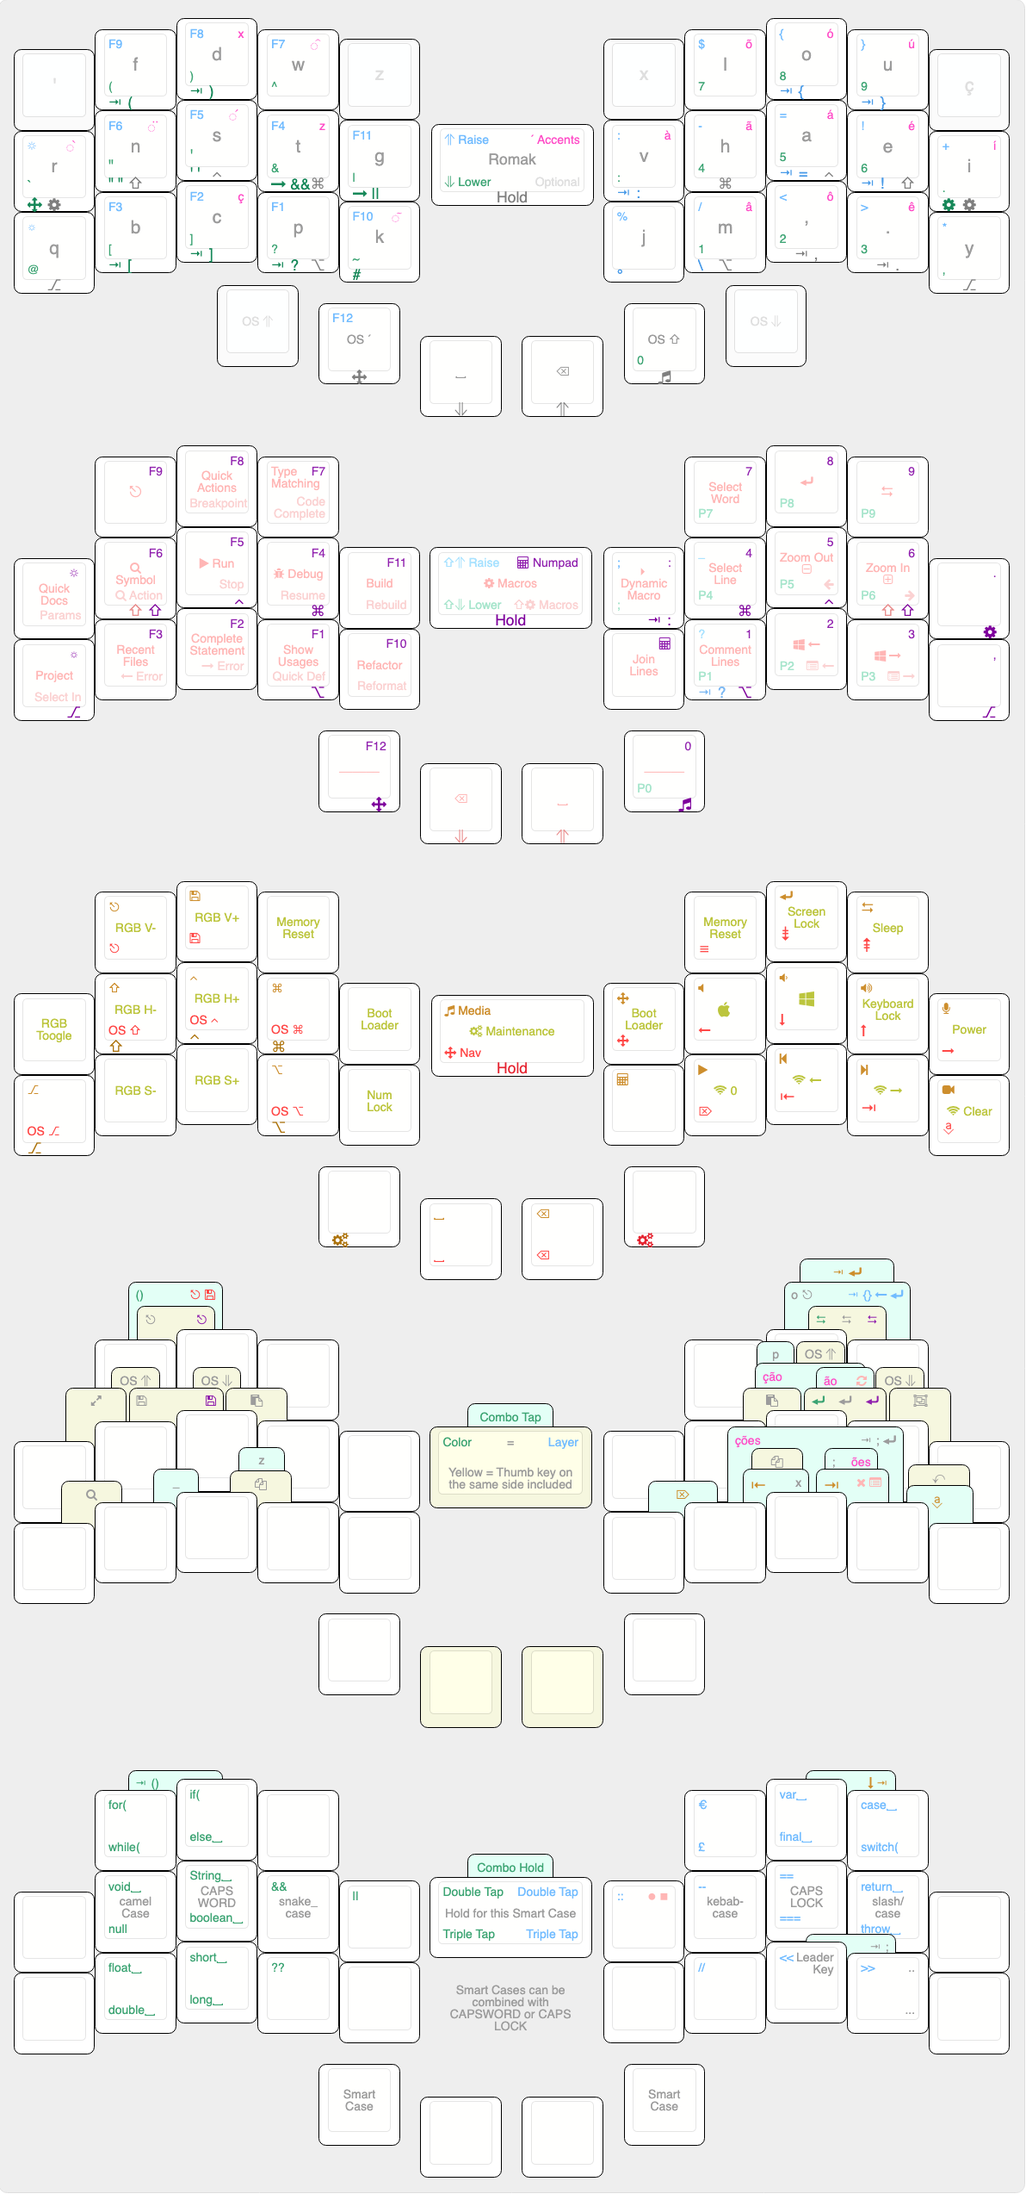
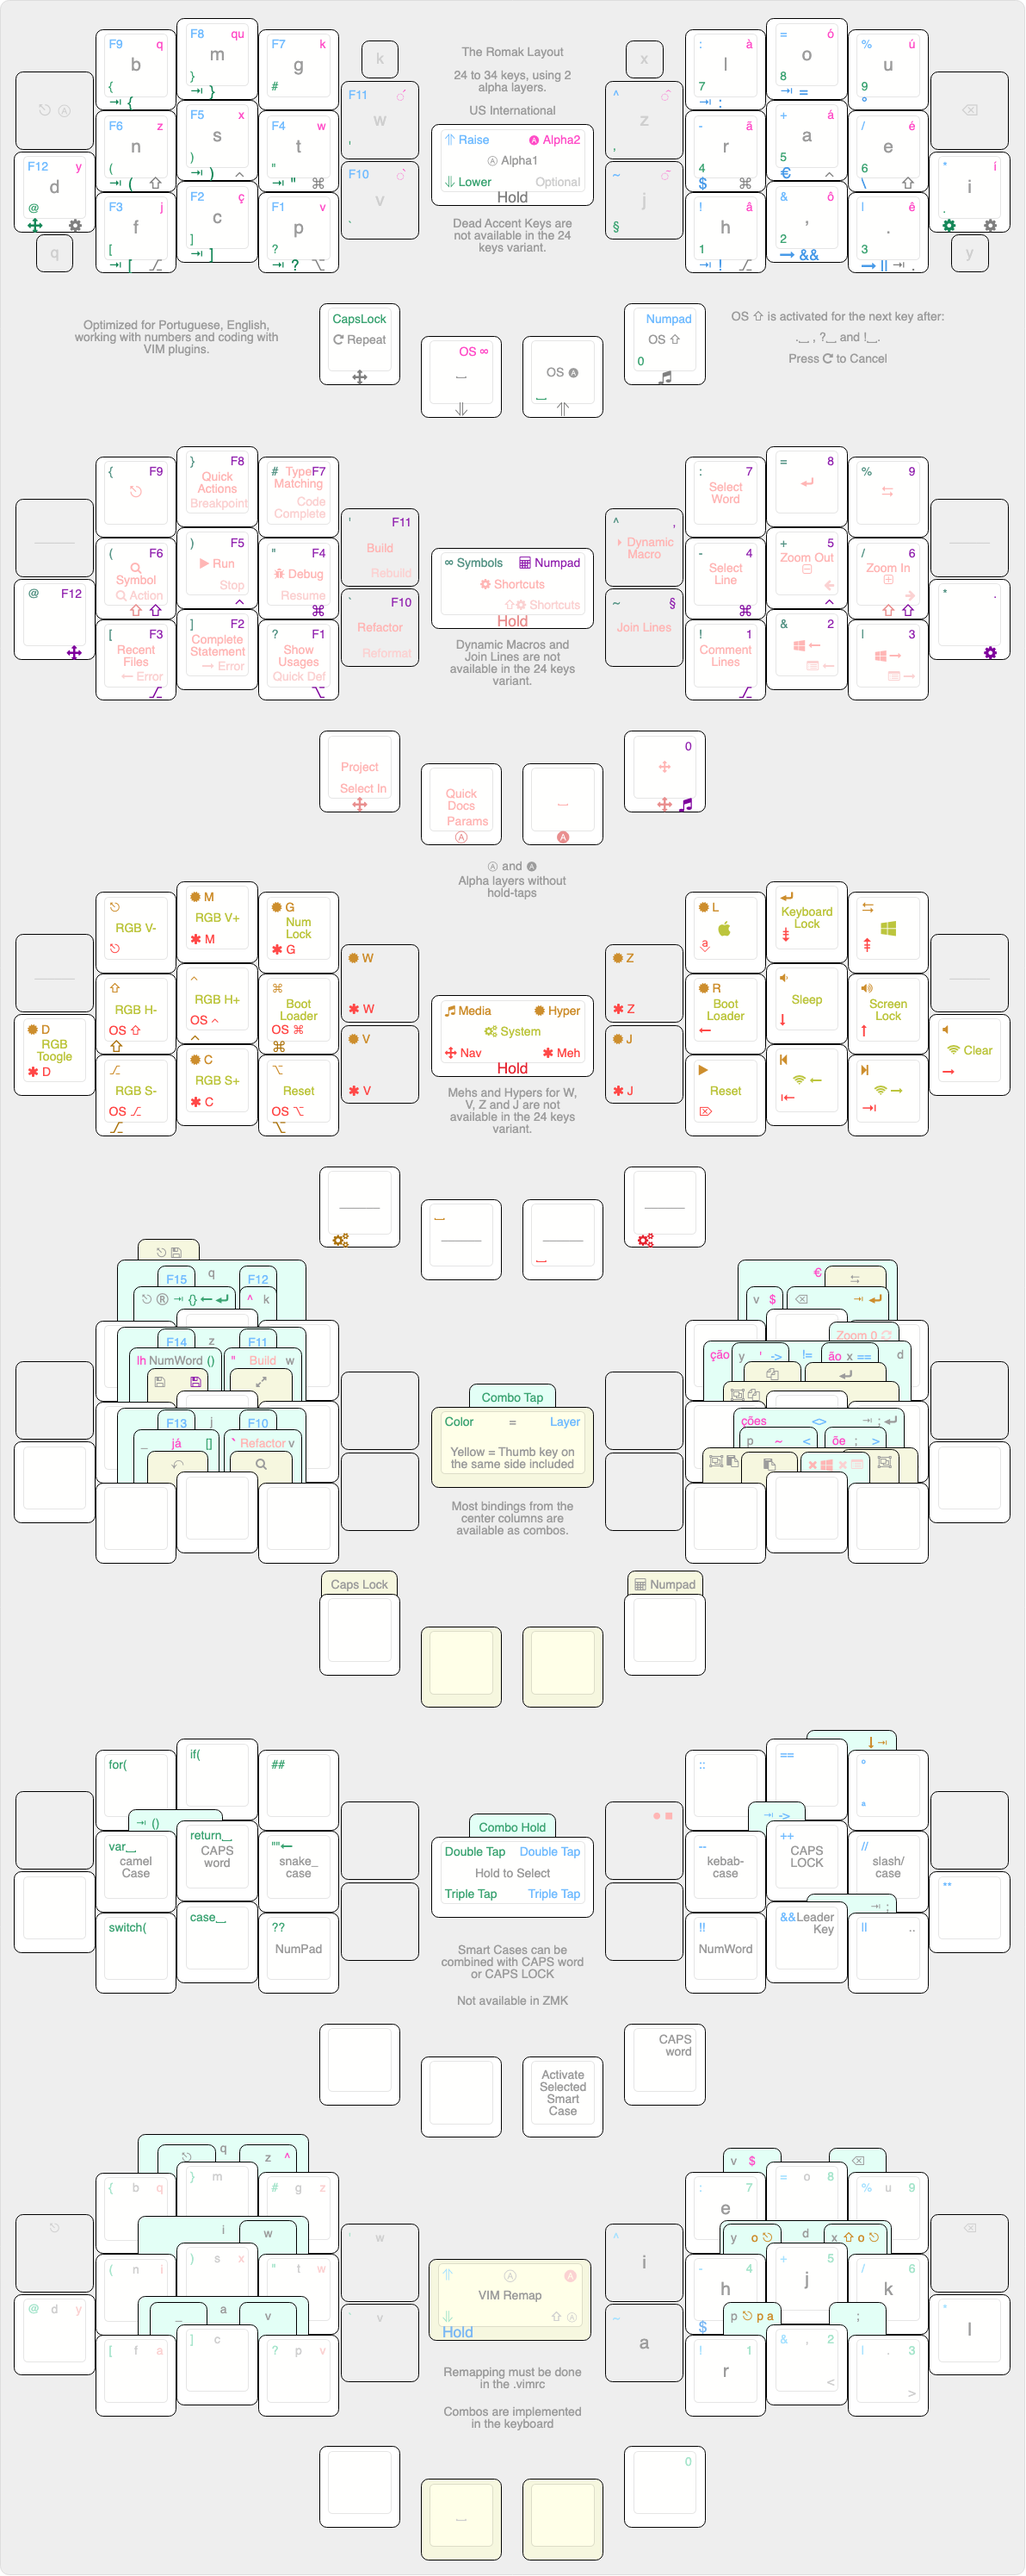
update rafaelromao

diff --git a/src/posts/keymaps/rafaelromao.md b/src/posts/keymaps/rafaelromao.md
@@ -1,13 +1,13 @@
 ---
 
 title: rafaelromao's keyboard layout
-summary: A split keyboard layout optimized for Portuguese, English, working with numbers and software programming with VIM plugins. The number of keys can vary from 30 to 36.
+summary: A split keyboard layout optimized for Portuguese, English, working with numbers and software programming with VIM plugins. The number of keys can vary from 24 to 34.
 keymapUrl: https://github.com/rafaelromao/keyboards
 author: rafaelromao
 keymapImage: rafaelromao.png
-keyboard: Ferris
-keyCount: 30
-layerCount: 9
+keyboard: Rommana
+keyCount: 24
+layerCount: 12
 firmwares: [QMK, ZMK]
 OS: ["MacOS", "Windows"]
 keybindings: ["Vim", "Spreadsheets"]
